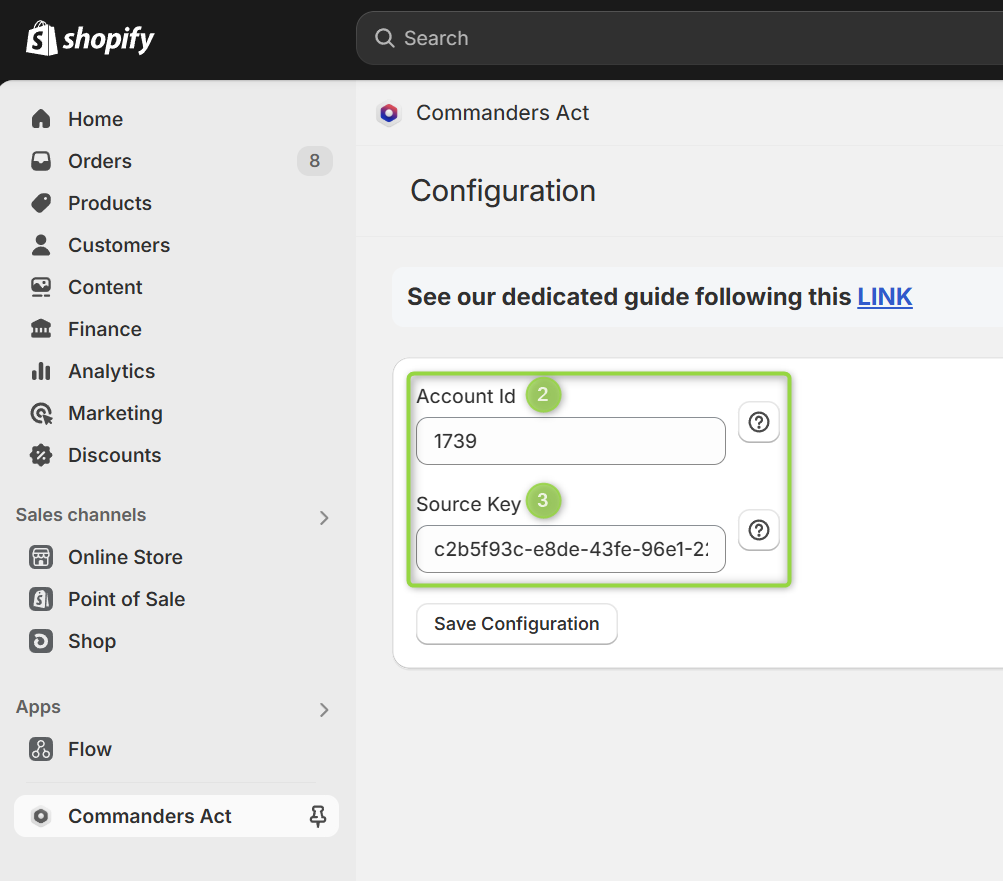
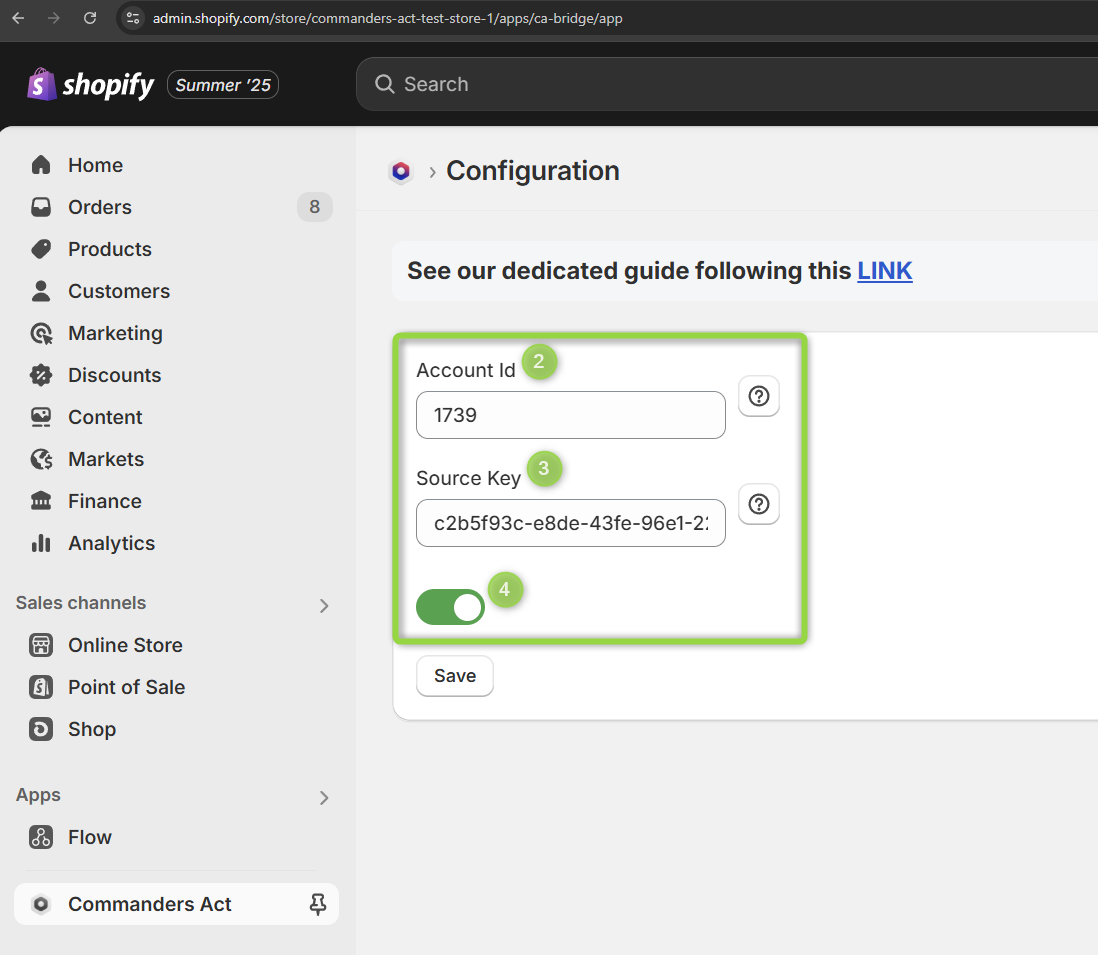
GITBOOK-1842: change request with no subject merged in GitBook

diff --git a/features/sources/sources-catalog/web/cashopapp.md b/features/sources/sources-catalog/web/cashopapp.md
@@ -64,11 +64,15 @@ The Commanders Act application, which is available in the Shopify App Store, hel
    \
    ![](../../../../.gitbook/assets/shopify_4.png)\
 
-4. Configure the app by providing both the `(2)` `Site/Account Id`  and `(3)` `Source Key`  from the source you created in the section [Source setup](cashopapp.md#source-setup) (See step 9.):\
+4. Configure the app by providing both the `(2)` `Site/Account Id`  and `(3)` `Source Key`  from the source you created in the section [Source setup](cashopapp.md#source-setup) (See the above step 9.) and then turn `(4)`  the toggle to activate your app configuration:\
    \
    ![](../../../../.gitbook/assets/shopify_5.png)\
 
-5. Click `Save Configuration` to complete the setup and activate the app. See the next section [Validate your setup](cashopapp.md#validate-your-setup) to ensure tracking is activated.
+5. Click `Save` to complete the setup and activate the app. See the next section [Validate your setup](cashopapp.md#validate-your-setup) to ensure tracking is activated.
+
+{% hint style="info" %}
+At any point in time, you can deactivate the app by turning the `(4)`  toggle off and click  `Save` .
+{% endhint %}
 
 ## Validate your setup
 
